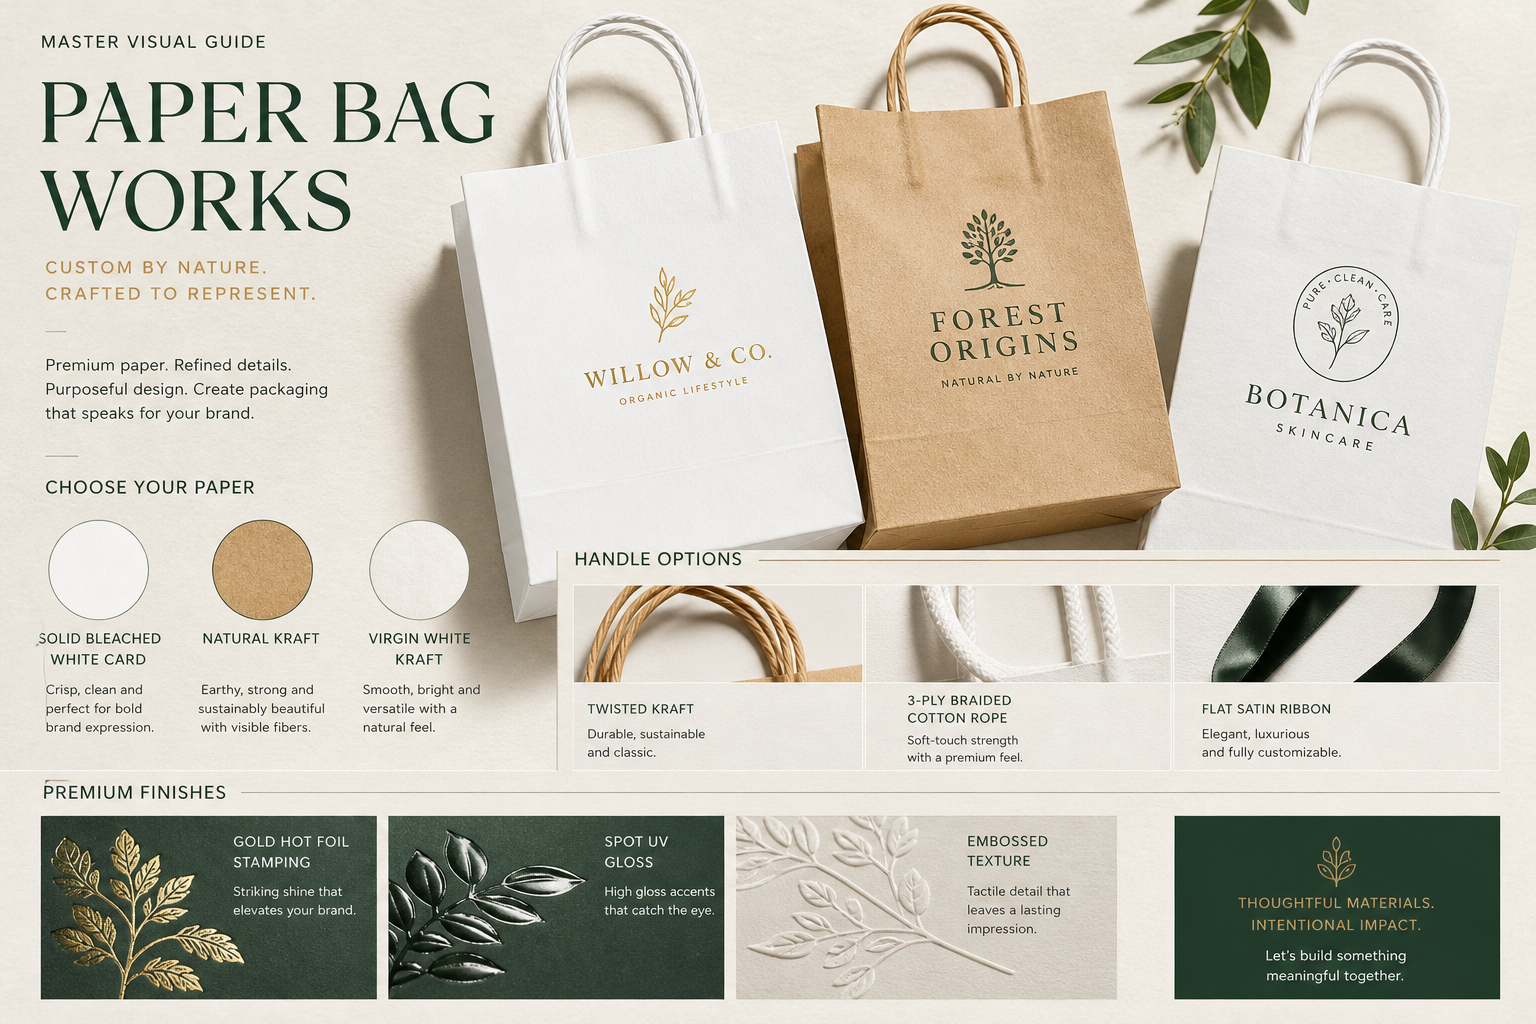
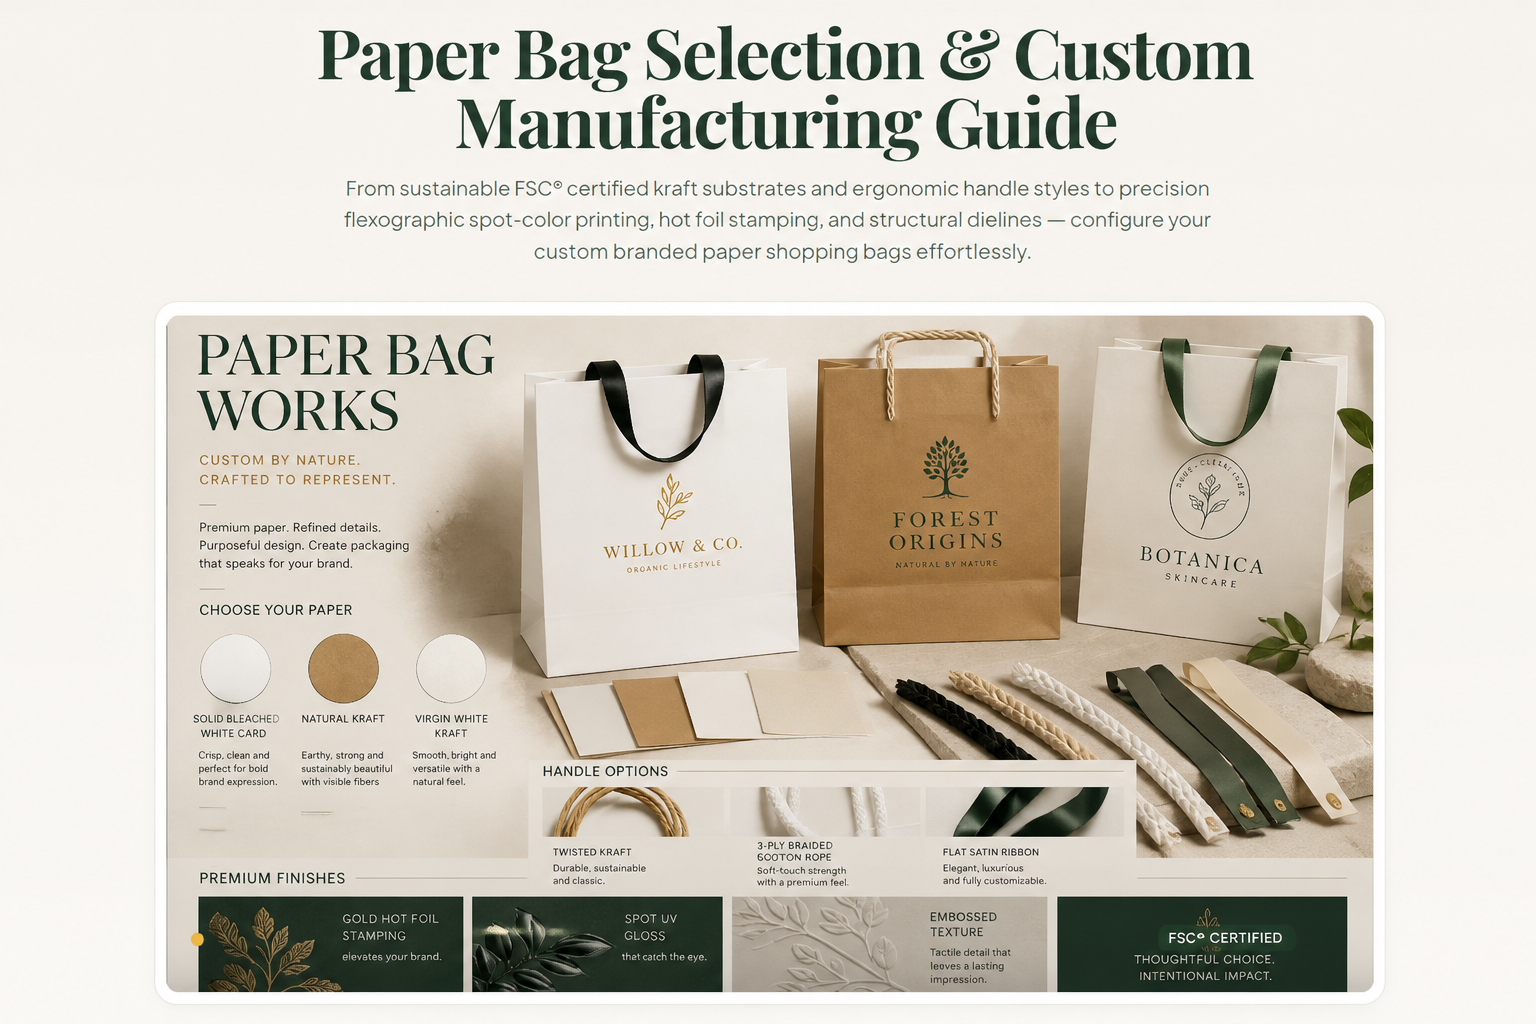
refactor: redesign Hero showcase with 2K studio photography and crisp specification cards

diff --git a/paper-bag-selection.html b/paper-bag-selection.html
@@ -211,22 +211,47 @@
         </p>
 
         <!-- Hero Visual Showcase Banner -->
-        <div class="mt-12 max-w-5xl mx-auto rounded-3xl overflow-hidden border border-[#E2DBD0] shadow-card bg-white p-3">
-          <div class="relative rounded-2xl overflow-hidden aspect-[16/9] bg-[#ECE8E1]">
+        <div class="mt-12 max-w-5xl mx-auto rounded-3xl overflow-hidden border border-[#E2DBD0] shadow-card bg-white p-3 sm:p-4">
+          <div class="relative rounded-2xl overflow-hidden aspect-[16/9] bg-[#ECE8E1] group">
             <img 
               src="/assets/images/selection/selection-hero-master.png" 
               alt="Paper Bag Works Custom Paper Bag Selection Master Visual Guide" 
-              class="w-full h-full object-cover"
+              class="w-full h-full object-cover group-hover:scale-102 transition-transform duration-700"
               loading="eager"
             />
-            <div class="absolute inset-0 bg-gradient-to-t from-black/50 via-transparent to-transparent"></div>
-            <div class="absolute bottom-6 left-6 right-6 flex items-center justify-between text-white text-xs sm:text-sm font-semibold">
+            <div class="absolute inset-0 bg-gradient-to-t from-black/60 via-black/10 to-transparent"></div>
+            <div class="absolute bottom-4 sm:bottom-6 left-4 sm:left-6 right-4 sm:right-6 flex flex-col sm:flex-row sm:items-center justify-between gap-3 text-white text-xs sm:text-sm font-semibold">
               <span class="flex items-center gap-2">
-                <span class="w-3 h-3 rounded-full bg-amber-400"></span>
+                <span class="w-3 h-3 rounded-full bg-amber-400 shadow-sm animate-pulse"></span>
                 <span>Bespoke Substrates, Precision Flexo Inks & Luxury Hot Foil Finishing</span>
               </span>
-              <span class="bg-forest/80 px-3 py-1 rounded-lg text-xs font-bold tracking-wider uppercase">FSC® Certified</span>
+              <span class="self-start sm:self-auto bg-forest/90 backdrop-blur-md border border-white/20 px-3.5 py-1.5 rounded-xl text-xs font-bold tracking-wider uppercase shadow-md">FSC® Certified</span>
             </div>
+          </div>
+
+          <!-- Quick Navigation Bar Below Master Hero Image -->
+          <div class="mt-4 pt-4 border-t border-[#F0EBE3] grid grid-cols-1 md:grid-cols-3 gap-3 text-left">
+            <a href="#handles" class="p-3 rounded-xl bg-forest-surface hover:bg-[#EEF4F0] border border-forest/10 transition-colors flex items-center justify-between group">
+              <div>
+                <span class="text-[10px] font-bold text-forest/60 uppercase block">Step 1 · Handles</span>
+                <span class="text-xs font-bold text-forest">4 Cord & Ribbon Varieties</span>
+              </div>
+              <span class="text-xs font-bold text-forest group-hover:translate-x-1 transition-transform">→</span>
+            </a>
+            <a href="#printing" class="p-3 rounded-xl bg-forest-surface hover:bg-[#EEF4F0] border border-forest/10 transition-colors flex items-center justify-between group">
+              <div>
+                <span class="text-[10px] font-bold text-forest/60 uppercase block">Step 2 · Printing & Finishes</span>
+                <span class="text-xs font-bold text-forest">1-6 Flexo Inks, Foil & Spot UV</span>
+              </div>
+              <span class="text-xs font-bold text-forest group-hover:translate-x-1 transition-transform">→</span>
+            </a>
+            <a href="/size-options.html" class="p-3 rounded-xl bg-forest-surface hover:bg-[#EEF4F0] border border-forest/10 transition-colors flex items-center justify-between group">
+              <div>
+                <span class="text-[10px] font-bold text-forest/60 uppercase block">Step 3 · Dimensions</span>
+                <span class="text-xs font-bold text-forest">38 Standard Tooling Dies</span>
+              </div>
+              <span class="text-xs font-bold text-forest group-hover:translate-x-1 transition-transform">→</span>
+            </a>
           </div>
         </div>
       </div>

diff --git a/public/paper-bag-selection.html b/public/paper-bag-selection.html
@@ -211,22 +211,47 @@
         </p>
 
         <!-- Hero Visual Showcase Banner -->
-        <div class="mt-12 max-w-5xl mx-auto rounded-3xl overflow-hidden border border-[#E2DBD0] shadow-card bg-white p-3">
-          <div class="relative rounded-2xl overflow-hidden aspect-[16/9] bg-[#ECE8E1]">
+        <div class="mt-12 max-w-5xl mx-auto rounded-3xl overflow-hidden border border-[#E2DBD0] shadow-card bg-white p-3 sm:p-4">
+          <div class="relative rounded-2xl overflow-hidden aspect-[16/9] bg-[#ECE8E1] group">
             <img 
               src="/assets/images/selection/selection-hero-master.png" 
               alt="Paper Bag Works Custom Paper Bag Selection Master Visual Guide" 
-              class="w-full h-full object-cover"
+              class="w-full h-full object-cover group-hover:scale-102 transition-transform duration-700"
               loading="eager"
             />
-            <div class="absolute inset-0 bg-gradient-to-t from-black/50 via-transparent to-transparent"></div>
-            <div class="absolute bottom-6 left-6 right-6 flex items-center justify-between text-white text-xs sm:text-sm font-semibold">
+            <div class="absolute inset-0 bg-gradient-to-t from-black/60 via-black/10 to-transparent"></div>
+            <div class="absolute bottom-4 sm:bottom-6 left-4 sm:left-6 right-4 sm:right-6 flex flex-col sm:flex-row sm:items-center justify-between gap-3 text-white text-xs sm:text-sm font-semibold">
               <span class="flex items-center gap-2">
-                <span class="w-3 h-3 rounded-full bg-amber-400"></span>
+                <span class="w-3 h-3 rounded-full bg-amber-400 shadow-sm animate-pulse"></span>
                 <span>Bespoke Substrates, Precision Flexo Inks & Luxury Hot Foil Finishing</span>
               </span>
-              <span class="bg-forest/80 px-3 py-1 rounded-lg text-xs font-bold tracking-wider uppercase">FSC® Certified</span>
+              <span class="self-start sm:self-auto bg-forest/90 backdrop-blur-md border border-white/20 px-3.5 py-1.5 rounded-xl text-xs font-bold tracking-wider uppercase shadow-md">FSC® Certified</span>
             </div>
+          </div>
+
+          <!-- Quick Navigation Bar Below Master Hero Image -->
+          <div class="mt-4 pt-4 border-t border-[#F0EBE3] grid grid-cols-1 md:grid-cols-3 gap-3 text-left">
+            <a href="#handles" class="p-3 rounded-xl bg-forest-surface hover:bg-[#EEF4F0] border border-forest/10 transition-colors flex items-center justify-between group">
+              <div>
+                <span class="text-[10px] font-bold text-forest/60 uppercase block">Step 1 · Handles</span>
+                <span class="text-xs font-bold text-forest">4 Cord & Ribbon Varieties</span>
+              </div>
+              <span class="text-xs font-bold text-forest group-hover:translate-x-1 transition-transform">→</span>
+            </a>
+            <a href="#printing" class="p-3 rounded-xl bg-forest-surface hover:bg-[#EEF4F0] border border-forest/10 transition-colors flex items-center justify-between group">
+              <div>
+                <span class="text-[10px] font-bold text-forest/60 uppercase block">Step 2 · Printing & Finishes</span>
+                <span class="text-xs font-bold text-forest">1-6 Flexo Inks, Foil & Spot UV</span>
+              </div>
+              <span class="text-xs font-bold text-forest group-hover:translate-x-1 transition-transform">→</span>
+            </a>
+            <a href="/size-options.html" class="p-3 rounded-xl bg-forest-surface hover:bg-[#EEF4F0] border border-forest/10 transition-colors flex items-center justify-between group">
+              <div>
+                <span class="text-[10px] font-bold text-forest/60 uppercase block">Step 3 · Dimensions</span>
+                <span class="text-xs font-bold text-forest">38 Standard Tooling Dies</span>
+              </div>
+              <span class="text-xs font-bold text-forest group-hover:translate-x-1 transition-transform">→</span>
+            </a>
           </div>
         </div>
       </div>
